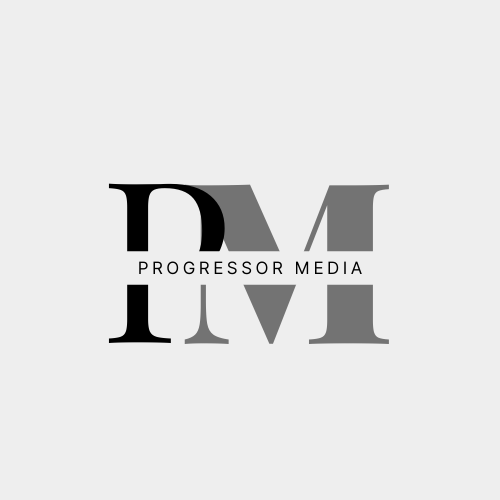
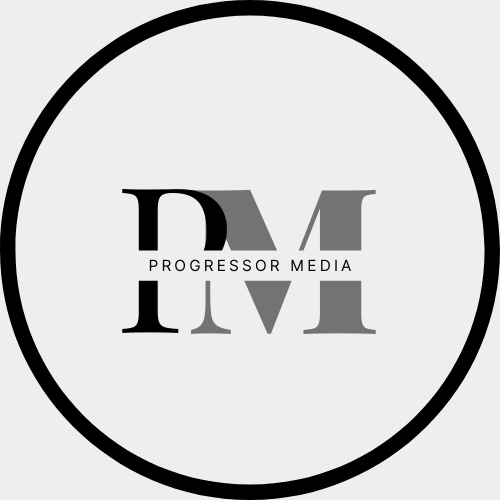
navbar

Changed region(s): [[0.0, 0.0, 1.0, 1.0], [0.21, 0.36, 0.78, 0.69], [0.51, 0.39, 0.54, 0.45]]

diff --git a/src/components/navbar/navbar.css b/src/components/navbar/navbar.css
@@ -2,16 +2,49 @@
 {
     display: flex;
     flex-direction: row;
-    justify-content: space-between;
     align-items: center;
     font-family: var(--font-family);
-    padding: 0rem 2rem 0rem 1.5rem;
+    padding: 1.5rem 2.5rem 0rem 2.5rem;
+    justify-content: center;
+    gap: 13rem;
+}
+.navbar-logo
+{
+    display: flex;
+    justify-content: center;
+    align-items: center;   
+    cursor: pointer; 
+    flex: 0.1;
+}
+/*.navbar-logo img
+{
+    width: 85px;
+    height: 85px;
+    border: 5px solid var(--color-dark);
+    border-radius: 50px;
+    padding: 9px;
+}*/
+
+.navbar-circle
+{
+    background: black;
+    color: #eeeeee;
+    padding: 1.2rem 1rem;
+    font-size: 1.2rem;
+    font-weight: 700;
+    border-radius: 50%;
+    font-family: var(--font-family);
+    margin-right: 0.75rem;
 }
 
-.navbar-logo img
+.navbar-title h1
 {
-    width: 125px;
-    height: 125px;
+    font-size: 1.4rem;
+    font-weight: 800;
+    color: var(--color-dark);
+    font-family: var(--font-family);
+    margin-right: 0.75rem;
+
 }
 
 .navbar-links
@@ -27,21 +60,21 @@ nav
     justify-content: center;
     position: relative;
     width: 100%;
-    height: 50px;
     background: #eeeeee;
-    border-radius: 50px;  
-    border: 0.2rem solid var(--color-dark);
+    border-radius: 50px; 
+    padding: 0.25rem; 
+    border: 5px solid var(--color-dark);
 }
 
 nav a
 {
     position: relative;
     display: inline-block;
-    font-size: 1em;
-    font-weight: 500;
+    font-size: 1rem;
+    font-weight: 600;
     color: var(--color-dark);
     cursor: pointer;
-    padding: 0 30px;
+    padding: 0.8rem 1.5rem;
 
     z-index: 1;
 }
@@ -59,7 +92,7 @@ nav span{
     width: 20%;
     height: 100%;
     background: var(--color-dark);
-    border-radius: 50px;
+    border-radius: 25px;
     color: #eeeeee;
     z-index: 0;
     transition: all 0.5s ease-in-out;
@@ -71,24 +104,25 @@ nav a:nth-child(1):hover~span{
 }
 
 nav a:nth-child(2):hover~span{
-    left: 115px;
+    left: 105px;
     display: block;
 }
 nav a:nth-child(3):hover~span{
-    left: 230px;
+    left: 210px;
     display: block;
 }
 nav a:nth-child(4):hover~span{
-    left: 340px;
+    left: 313px;
     display: block;
 }
 nav a:nth-child(5):hover~span{
-    left: 460px;
+    left: 421px;
     display: block;
 }
 .navbar-button button
 {
     padding: 1rem 2rem;
     font-size: 1rem;
-    
+    border: 5px solid var(--color-dark);
+    border-radius: 50px;
 }

diff --git a/src/components/navbar/Navbar.jsx b/src/components/navbar/Navbar.jsx
@@ -1,6 +1,5 @@
 import React from "react";
 import "./navbar.css";
-import Logo from "../../assets/P.png";
 import { Link } from "react-scroll";
 const Menu = () => (
   <nav>
@@ -30,9 +29,16 @@ const Menu = () => (
 const Navbar = () => {
   return (
     <div className="navbar" id="nav">
+      <a href="/">
       <div className="navbar-logo">
-        <img src={Logo} alt="logo" />
+        
+          <div className="navbar-circle">PM</div>
+          <div className="navbar-title">
+            <h1>Progressor Media</h1>
+          </div>
+        
       </div>
+      </a>
 
       <div className="navbar-links">
         <Menu />
